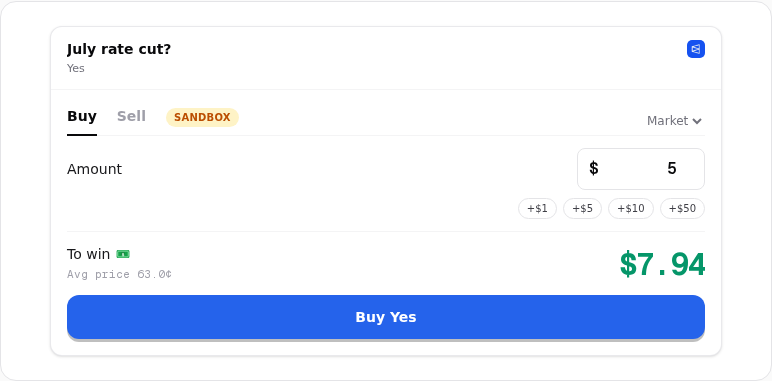
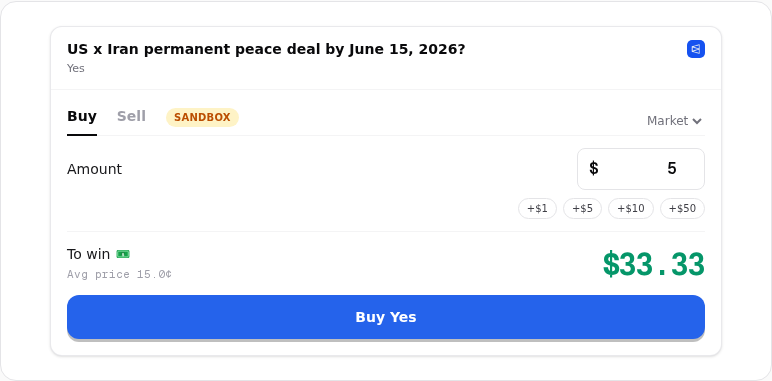
docs: simplify readme screenshots (#5)

Changed region(s): [[0.0933, 0.1155, 0.6218, 0.1444], [0.7772, 0.664, 0.9326, 0.7218]]

diff --git a/README.md b/README.md
@@ -1,45 +1,35 @@
 # PMXT Builder Widgets
 
-React widgets that let your users discover prediction markets and trade them inside your product. PMXT handles the multi-venue trading rail; you get a fast UI path to a new outcome: collect fees on your users' trading activity.
+Drop-in React widgets for prediction-market trading. Let users trade inside your app while PMXT handles routing, escrow, signing, and builder-fee attribution.
 
-- One integration for Polymarket and Opinion today, with more venues as PMXT escrow expands.
-- Discovery widgets turn into trade tickets automatically: users click an outcome, sign, and trade.
-- Works as copy-paste shadcn-style components or as a versioned npm package.
-- Sandbox mode lets you demo the full flow with play money before going live.
+## What you get
 
-## Widget screenshots
+- Search and matched-market discovery across PMXT venues
+- Live charts and order books
+- Non-custodial buy/sell tickets
+- Sandbox mode for demos before real funds
 
-These are the actual embeddable widgets, cropped out of the demo app.
-
-| Top markets | Price chart |
+| Matched markets | Live chart |
 | --- | --- |
-| ![Top Markets widget](docs/screenshots/top-markets-widget.png) | ![Price Chart widget](docs/screenshots/price-chart-widget.png) |
+| ![Matched Markets widget](docs/screenshots/matched-markets-widget.png) | ![Price Chart widget](docs/screenshots/price-chart-widget.png) |
 
-| Order book | Order ticket |
-| --- | --- |
-| ![Order Book widget](docs/screenshots/order-book-widget.png) | ![Order Ticket widget](docs/screenshots/order-ticket-widget.png) |
+| Order ticket |
+| --- |
+| ![Order Ticket widget](docs/screenshots/order-ticket-widget.png) |
 
-## Get started in 5 minutes
-
-1. Create a PMXT account: https://pmxt.dev
-2. Enable builder mode in your dashboard.
-3. Create an API key: https://www.pmxt.dev/dashboard/api-keys
-4. Add the widgets to your app.
-5. Route widget requests through a tiny server-side proxy so your PMXT key stays private.
-
-Install from npm:
+## Install
 
 ```bash
 npm install pmxt-widgets
 ```
 
-Or copy one widget into your codebase with the shadcn registry:
+Or copy a widget into your app:
 
 ```bash
 npx shadcn@latest add https://widgets.pmxt.dev/r/order-ticket.json
 ```
 
-Then render a market search. Picking an outcome opens an inline trading card with no extra wiring:
+## Use
 
 ```tsx
 import { MarketSearch, PmxtProvider } from 'pmxt-widgets';
@@ -53,62 +43,21 @@ export default function App() {
 }
 ```
 
-## What you can ship
+Clicking an outcome opens a tradable card. Your user signs; PMXT routes the trade; your builder account gets attributed.
 
-### 1. Market discovery
+## API key
 
-Use `MarketSearch`, `TopMarkets`, `MarketCard`, `EventCard`, `MatchedMarkets`, and `MarketTicker` to help users find high-volume markets across venues.
+Get a key at https://www.pmxt.dev/dashboard/api-keys.
 
-Best for: search boxes, home-page market feeds, event pages, newsletters, and trading dashboards.
-
-### 2. Live market data
-
-Use `PriceChart`, `OrderBookWidget`, `ExecutionQuote`, and `RecentTrades` to show the data users need before placing a trade.
-
-Best for: research pages, market detail pages, and power-user dashboards.
-
-### 3. Trading and wallet flows
-
-Use `OrderTicket`, `InlineTradePanel`, `TradingPanel`, `Positions`, `OpenOrdersTable`, `TradeHistory`, `BalanceCard`, and `WalletPanel` to run the full PMXT trading flow.
-
-Best for: embedded trading, portfolio pages, deposit/withdraw UX, and one-click sell flows.
-
-## The simple mental model
-
-Your app owns the user experience. PMXT supplies the trading API and escrow flow.
-
-1. Your user discovers a market in a widget.
-2. The widget asks your server proxy for a quote.
-3. The user signs the order in their wallet.
-4. PMXT submits the trade to the selected venue.
-5. Builder fees are attributed to your PMXT builder account.
-
-## API keys and proxies
-
-Every live widget request uses a PMXT API key. Keep that key on your server; never ship it to the browser.
-
-Your browser should call your own routes:
-
-```tsx
-<PmxtProvider config={{ apiUrl: '/api/pmxt', tradeUrl: '/api/trade' }}>
-    <App />
-</PmxtProvider>
-```
-
-Those routes should forward to PMXT with:
+Keep it server-side. Point `apiUrl` and `tradeUrl` at small proxy routes that add:
 
 ```http
-Authorization: Bearer YOUR_PMXT_API_KEY
+Authorization: Bearer YOUR_PMXT_KEY
 ```
 
-The demo app includes copyable reference routes:
+The demo includes reference proxies in `apps/demo/app/api/pmxt` and `apps/demo/app/api/trade`.
 
-- `apps/demo/app/api/pmxt` for read-only market data
-- `apps/demo/app/api/trade` for trading requests
-
-## Try sandbox mode first
-
-Sandbox mode uses live market data but simulated trading: a demo wallet, $1,000 of play USDC, quoted fills, balances, positions, open orders, and trade history. No real order reaches the trading API.
+## Sandbox
 
 ```tsx
 <PmxtProvider config={{ apiUrl: '/api/pmxt' }} sandbox>
@@ -116,65 +65,13 @@ Sandbox mode uses live market data but simulated trading: a demo wallet, $1,000 
 </PmxtProvider>
 ```
 
-Use sandbox mode for demos, onboarding, QA, and screenshots. Remove `sandbox` and add a live `tradeUrl` when you are ready for real trading.
+Sandbox uses live market data with simulated trading, balances, positions, and fills.
 
-## Tailwind setup
-
-If you install from npm, include the widget package in your Tailwind content scan:
-
-```css
-/* globals.css (Tailwind v4) */
-@source "../node_modules/pmxt-widgets/src";
-```
-
-Widgets support light and dark mode and read colors from CSS variables:
-
-```css
-:root {
-    --pmxt-accent: #2563eb;
-    --pmxt-positive: #059669;
-    --pmxt-negative: #dc2626;
-}
-```
-
-## Widget reference
-
-| Outcome | Widgets |
-| --- | --- |
-| Find tradable markets | `MarketSearch`, `TopMarkets`, `MarketCard`, `EventCard`, `MatchedMarkets`, `MarketTicker` |
-| Show venue + price primitives | `VenueBadge`, `PriceChip` |
-| Show market data | `OrderBookWidget`, `PriceChart`, `ExecutionQuote`, `RecentTrades` |
-| Let users trade | `OrderTicket`, `InlineTradePanel`, `TradingPanel` |
-| Manage account state | `WalletPanel`, `BalanceCard`, `Positions`, `OpenOrdersTable`, `TradeHistory` |
-
-All widgets are self-contained React components with Tailwind classes and no runtime chart/query/icon dependencies. Data flows through `PmxtProvider` and small built-in polling hooks.
-
-## Trading model
-
-Trading is non-custodial and uses the PMXT hosted trading API:
-
-1. `OrderTicket` quotes with `POST /v0/trade/build-order` and receives a `built_order_id`, quote, and EIP-712 `typed_data`.
-2. The user signs in their wallet. You can use the injected wallet by default or pass your own signer through `PmxtProvider` for wagmi, Privy, or embedded wallets.
-3. `POST /v0/trade/submit-order` executes with the `built_order_id` and signature.
-
-Account reads use `GET /v0/user/{address}/balances|positions|trades` and `GET /v0/orders/open`. Cancels use `/v0/orders/cancel/build` then `/v0/orders/cancel`.
-
-Funds live in the user's PMXT escrow balance. Users can deposit at https://pmxt.dev/dashboard/wallet or through `WalletPanel`.
-
-## Develop locally
+## Develop
 
 ```bash
 pnpm install
-cp apps/demo/.env.example apps/demo/.env.local   # add PMXT_API_KEY
-pnpm dev                                          # demo on :3017
-pnpm test                                         # widget unit tests
-pnpm registry                                     # build /r/*.json registry items
-pnpm build                                        # build package + demo
-```
-
-Repo layout:
-
-```text
-packages/widgets    pmxt-widgets package source
-apps/demo           Next.js showcase, API proxy examples, registry host
+cp apps/demo/.env.example apps/demo/.env.local
+pnpm dev
+pnpm test
 ```
